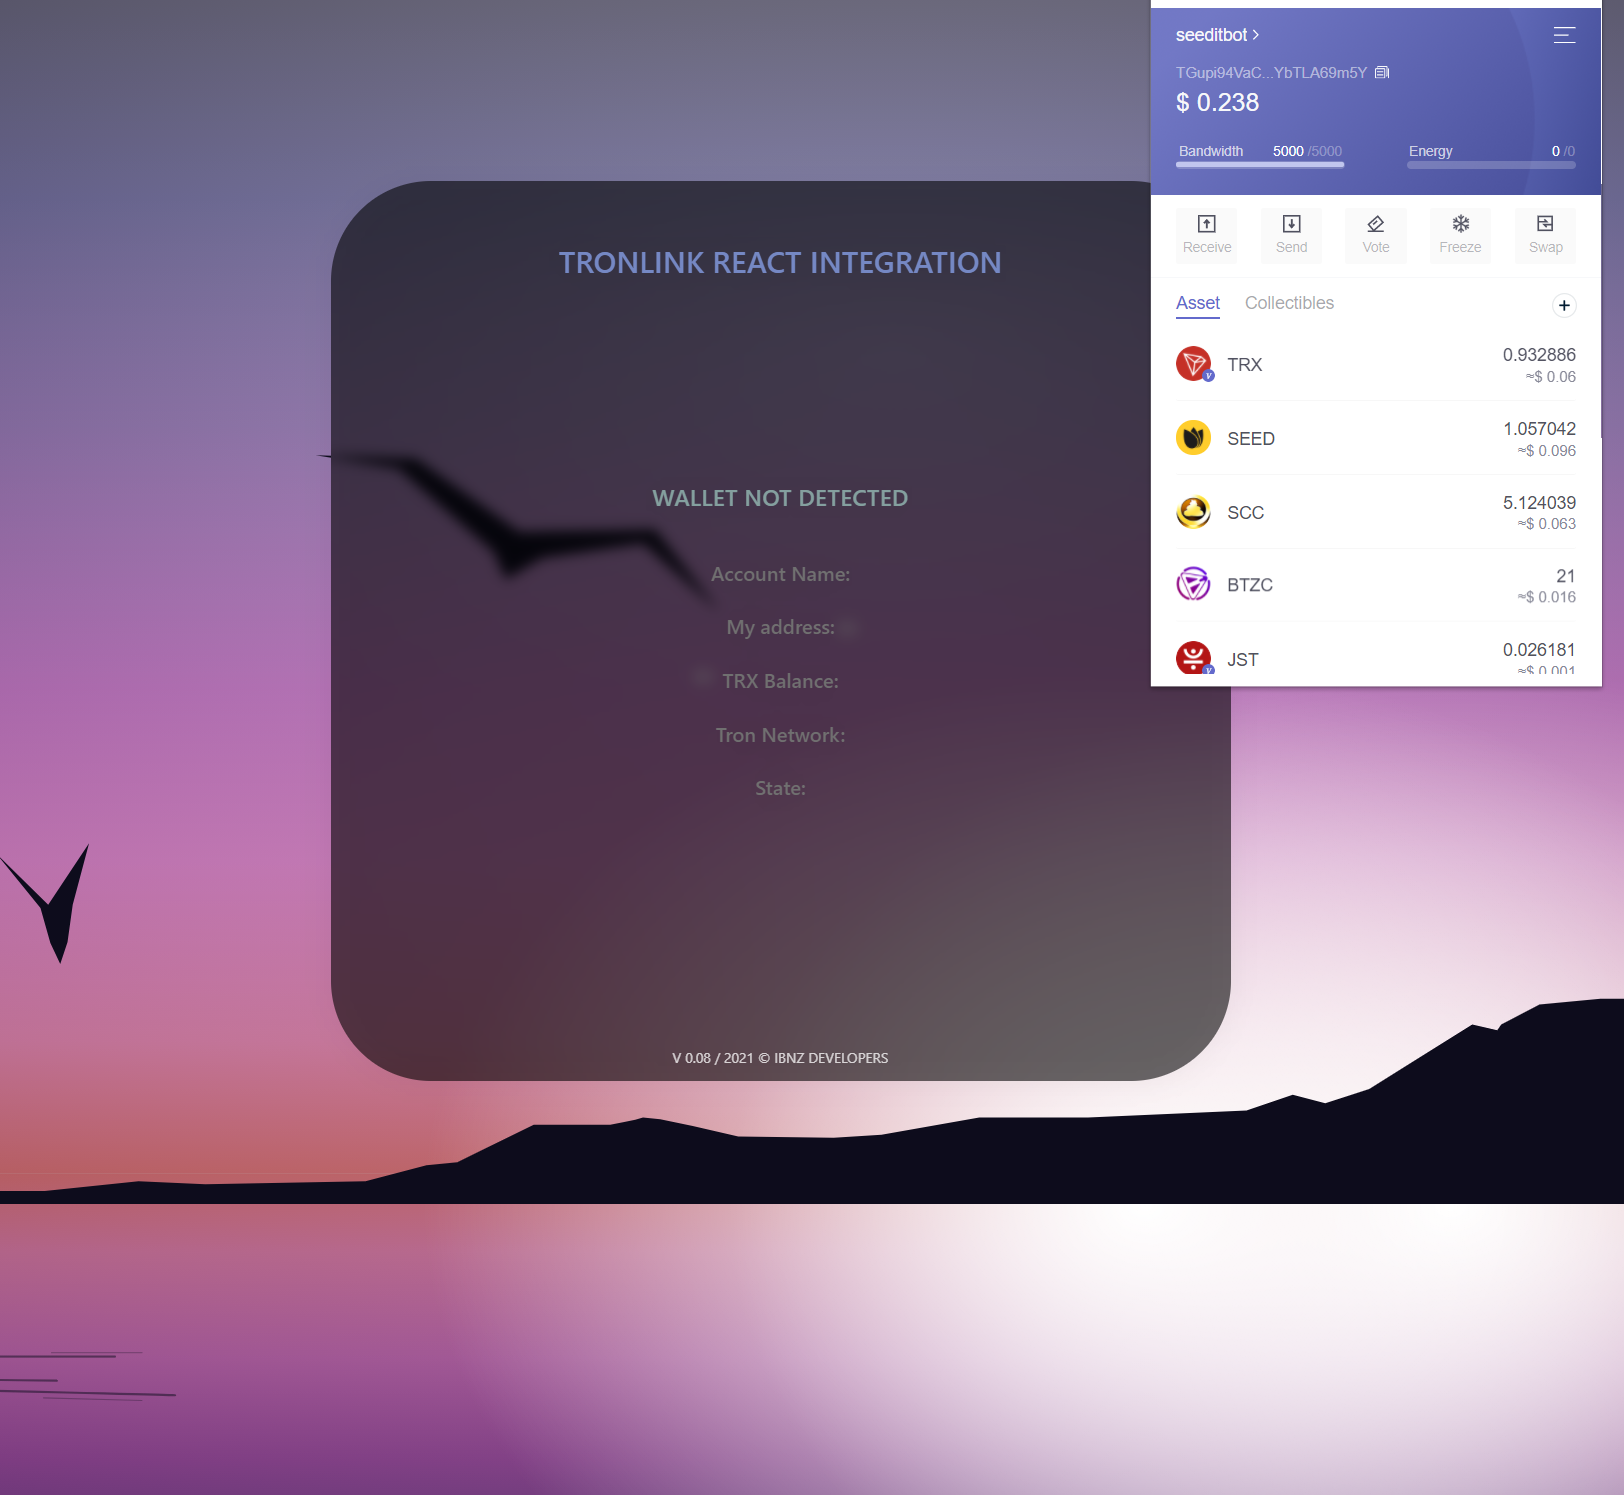
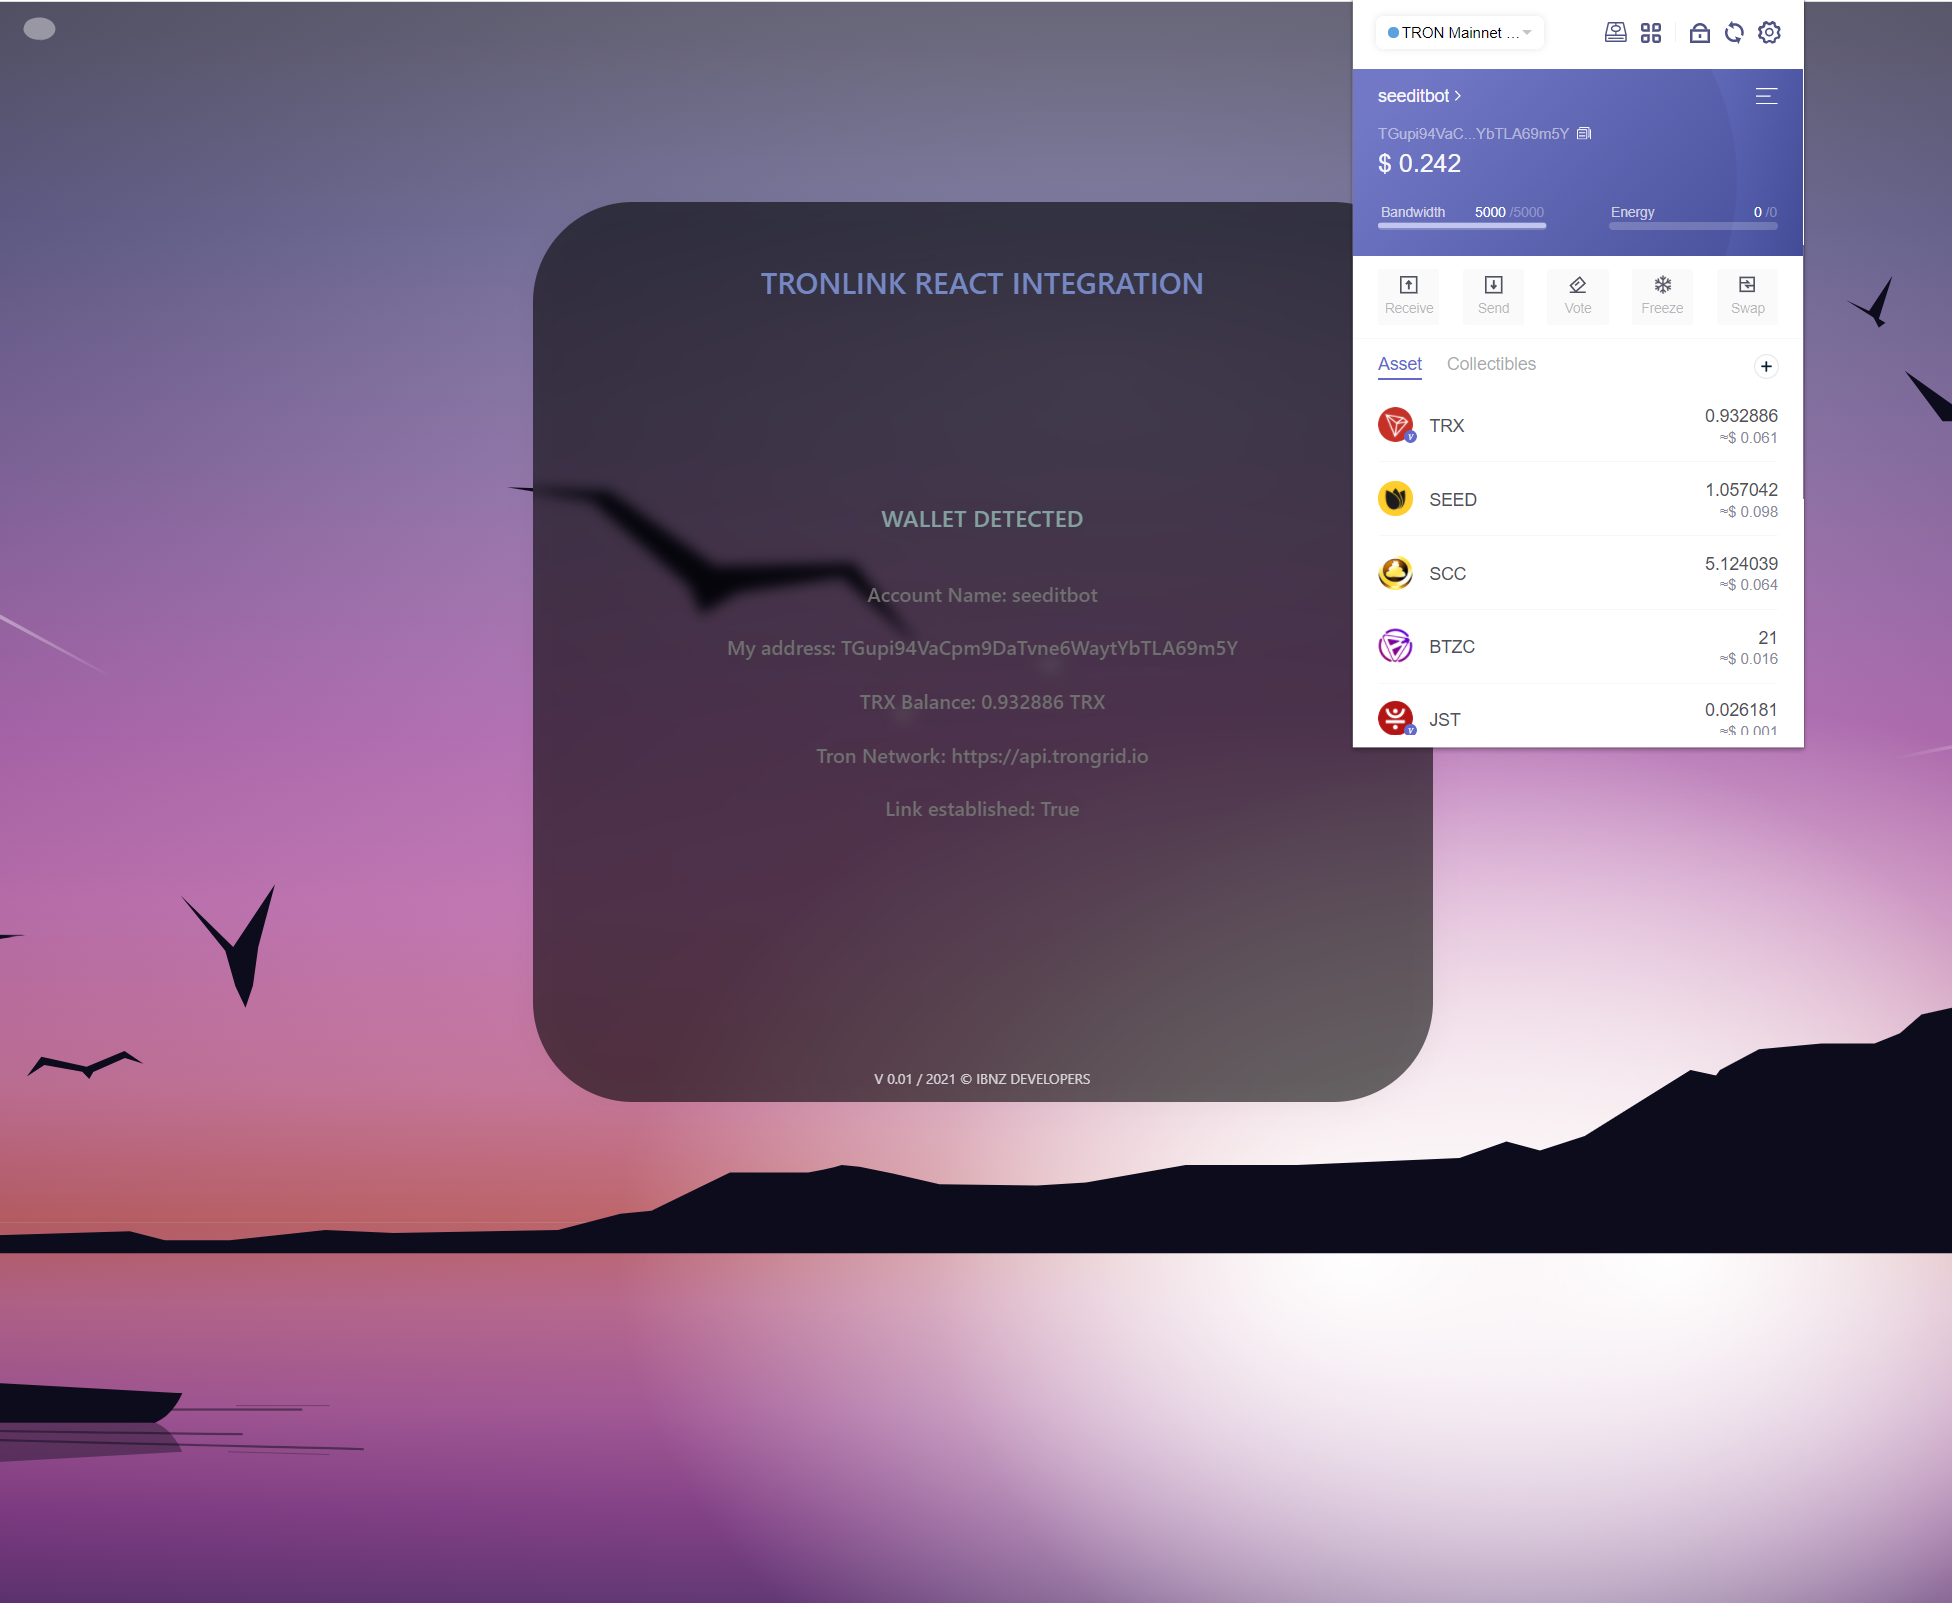
added fetching and link

diff --git a/src/App.js b/src/App.js
@@ -1,19 +1,92 @@
+import { React, useState, useEffect } from 'react';
 import './App.css';
 
 function App() {
+  const [tronLinkState, setTronLinkState] = useState('null');
+  const [connectedWallet, setconnectedWallet] = useState([
+    {
+      address: 'null',
+      name: 'null',
+    },
+  ]);
+  const [accountBalance, setAccountBalance] = useState(0);
+  const [walletAddress, setWalletAddress] = useState('null');
+  const [networkState, setNetworkState] = useState('null');
+  const [myMessage, setMyMessage] = useState(<h3> CHECKING </h3>);
+  let tradeobj = 'nne';
+
+  const connectTronlink = async () => {
+    await new Promise((resolve) => {
+      const tronWebState = {
+        installed: !!window.tronWeb,
+        loggedIn: window.tronWeb && window.tronWeb.ready,
+      };
+
+      if (tronWebState.installed) {
+        setTronLinkState(tronWebState.LoggedIn);
+        return resolve();
+      }
+   
+    });
+
+  };
+  const loadData = async () => {
+    setconnectedWallet([
+      {
+        address: window.tronWeb.defaultAddress.base58,
+        name: window.tronWeb.defaultAddress.name,
+      },
+    ]);
+    setWalletAddress(window.tronWeb.defaultAddress.base58);
+    tradeobj = await window.tronWeb.trx.getAccount(
+      window.tronWeb.defaultAddress.base58
+    );
+
+    setNetworkState(window.tronWeb.fullNode.host);
+    setTronLinkState('True');
+    setMyMessage(<h3> WALLET DETECTED</h3>);
+
+    setAccountBalance((await tradeobj.balance) / 1000000);
+  };
+
+  useEffect(() => {
+    connectTronlink();
+  }, []);
+
+  useEffect(() => {
+    connectTronlink();
+    //starting temp monitoring every 1 sec
+    const interval = setInterval(() => {
+      loadData();
+    }, 2000);
+
+    return () => {
+      clearInterval(interval);
+    };
+  }, []);
+
   return (
     <div className="App">
       <div className="Card">
         <h1> TRONLINK REACT INTEGRATION</h1>
         <div className="Stats">
-        <h3> WALLET NOT DETECTED</h3>
-        <h4>Account Name:</h4>
-        <h4>My address:</h4>
-        <h4>TRX Balance:</h4>
-        <h4>Tron Network:</h4>
-        <h4>State:</h4>
+          {myMessage}
+          <h4>Account Name: {connectedWallet[0].name} </h4>
+          <h4>My address: {walletAddress}</h4>
+          <h4>TRX Balance: {accountBalance} TRX</h4>
+          <h4>Tron Network: {networkState}</h4>
+          <h4>Link established: {tronLinkState}</h4>
         </div>
-      <footer><p>V 0.01 / 2021 &copy; IBNZ DEVELOPERS</p></footer>
+        {/* <button
+          onClick={() => {
+            loadData();
+          }}
+        >
+          Do Something
+        </button> */}
+        <footer>
+          <p>V 0.01 / 2021 &copy; IBNZ DEVELOPERS</p>
+        </footer>
       </div>
     </div>
   );
